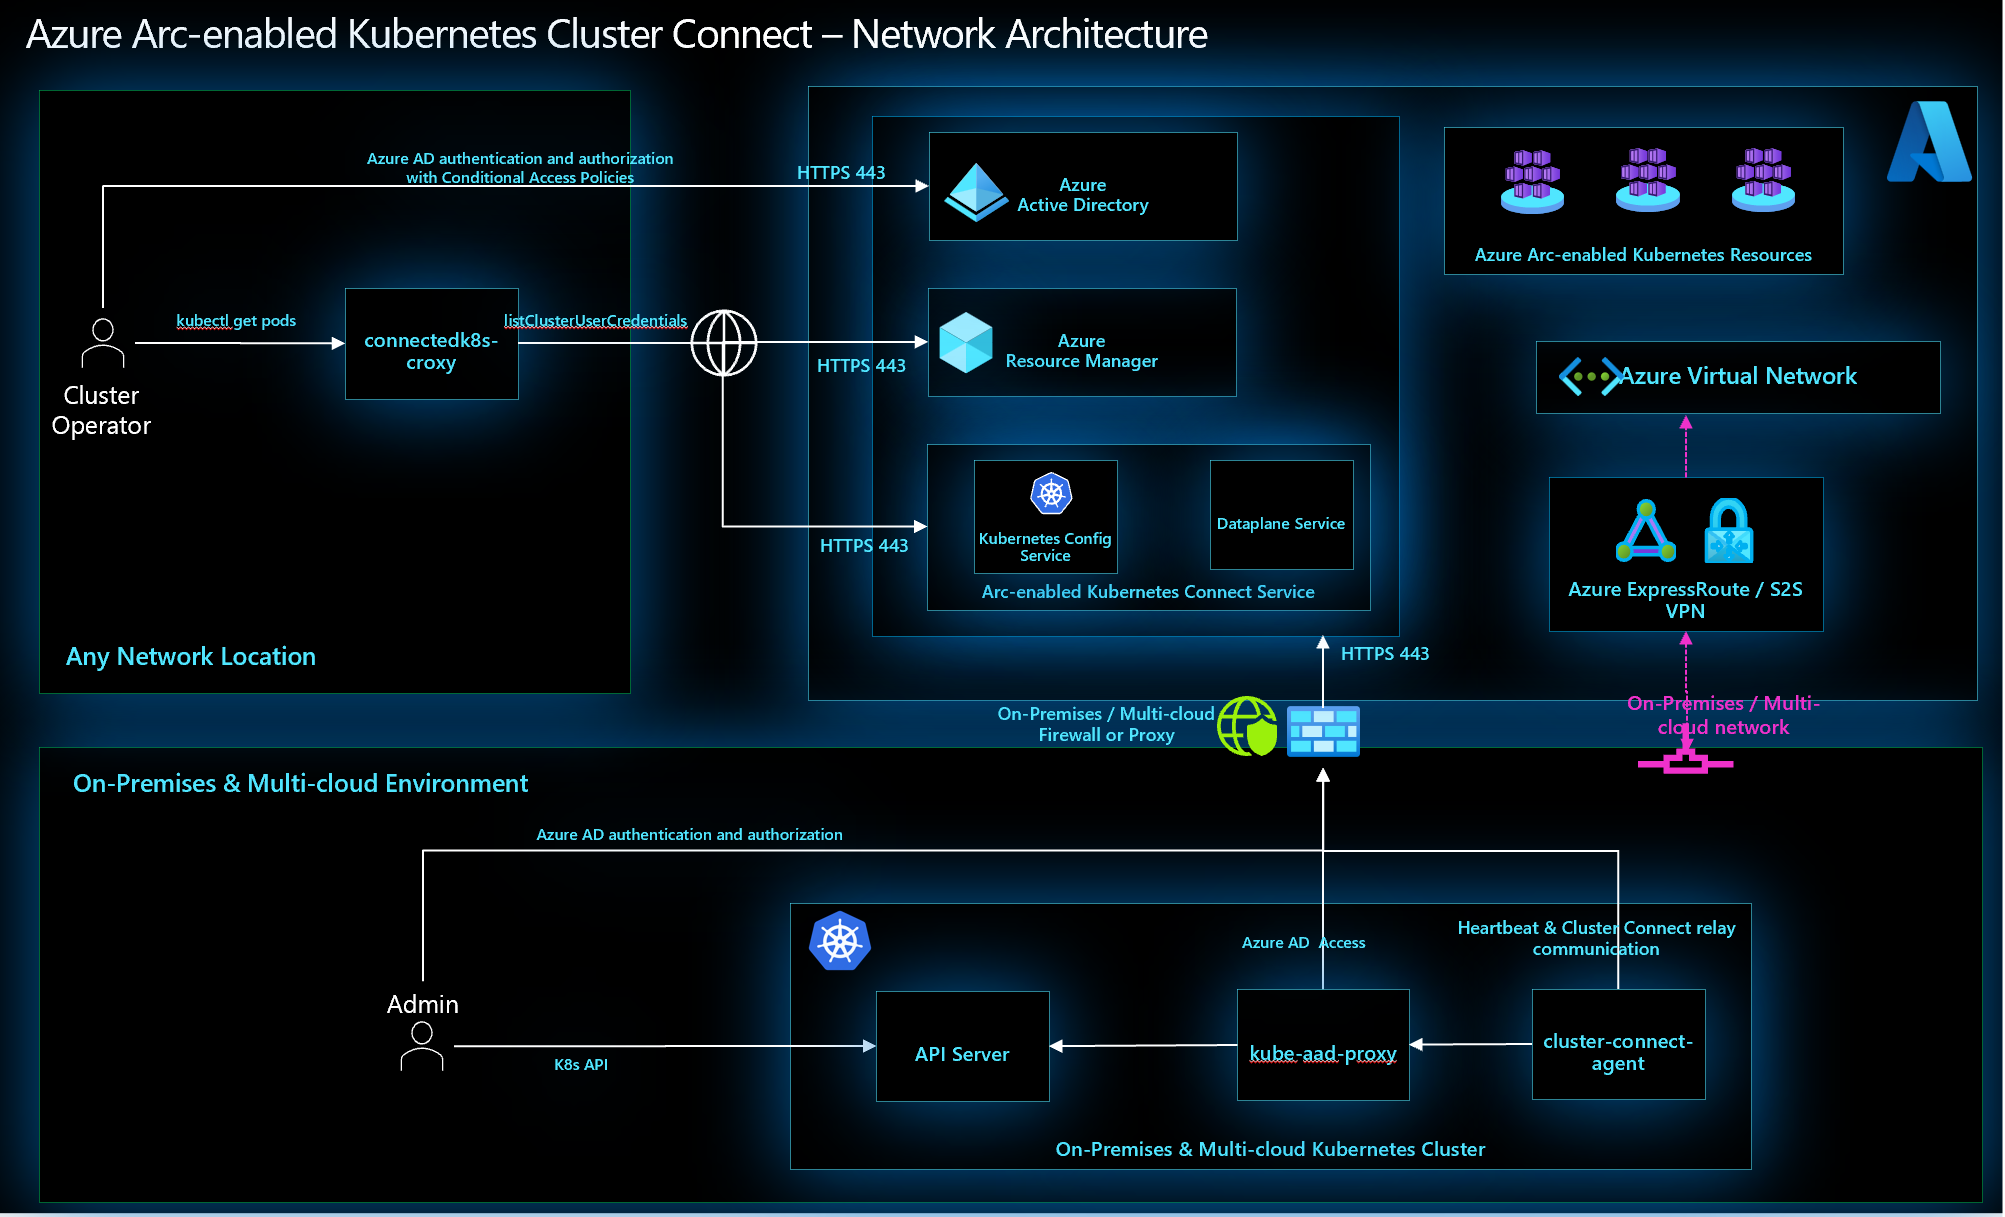
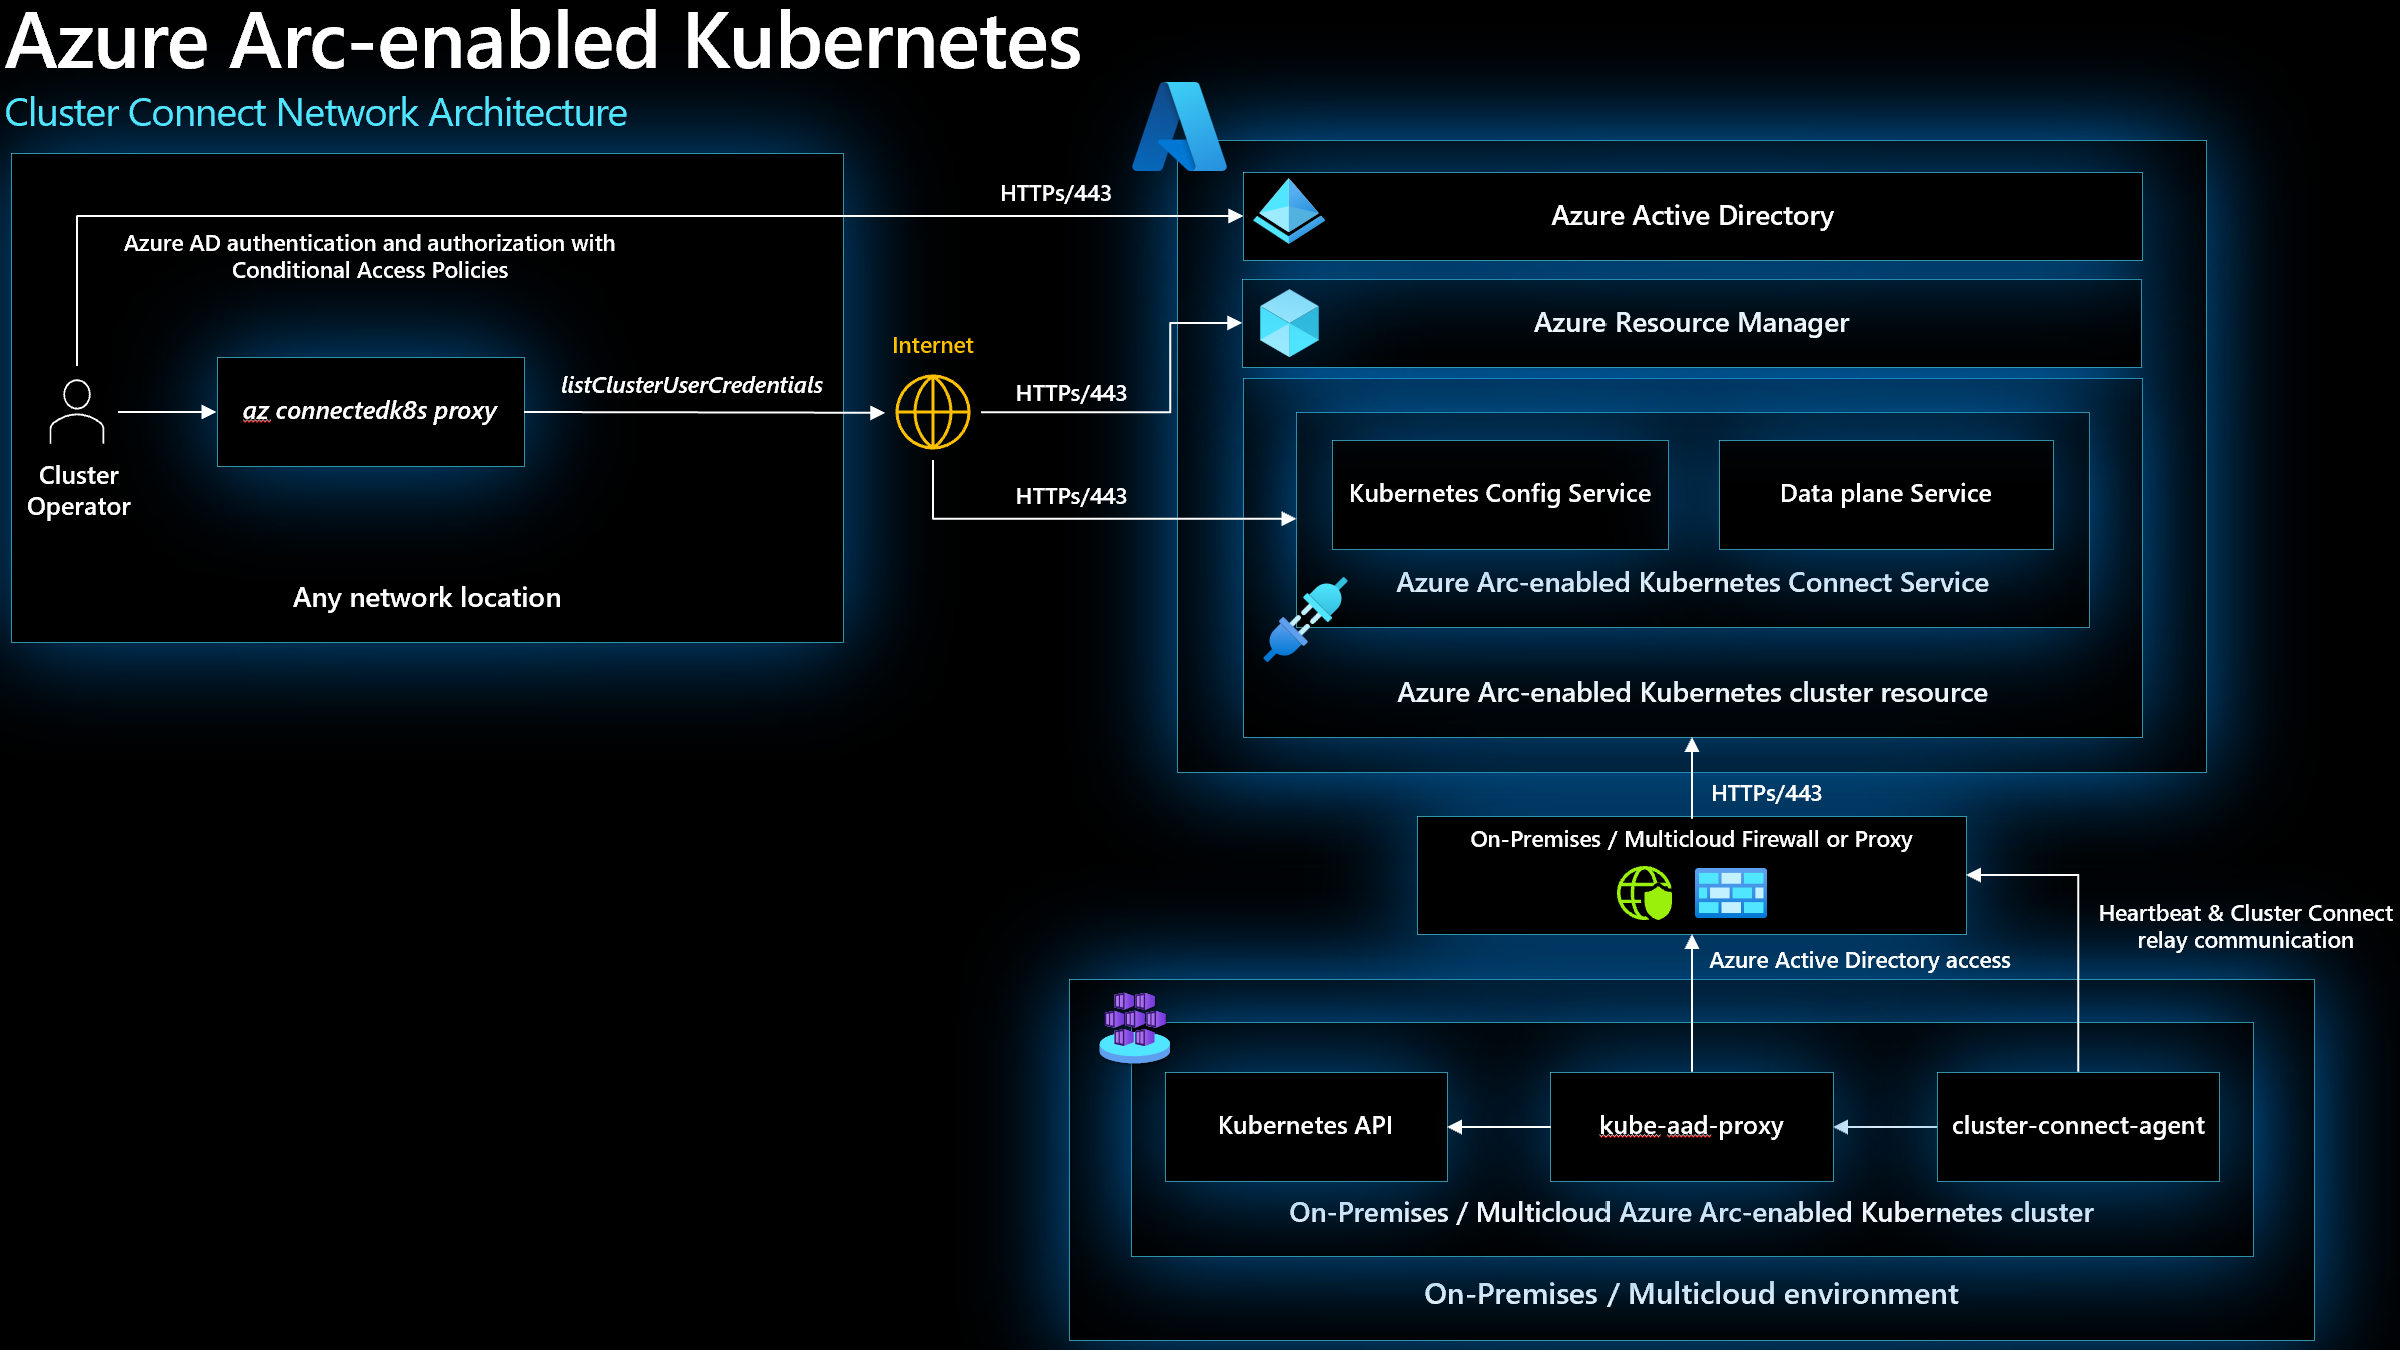
Updated Network CDA diagrams

diff --git a/docs/scenarios/hybrid/arc-enabled-kubernetes/network-connectivity.md b/docs/scenarios/hybrid/arc-enabled-kubernetes/network-connectivity.md
@@ -24,7 +24,7 @@ The following is an Azure Arc-enabled Kubernetes network architecture diagram to
 
 The following is a network architecture diagram that supports cluster access from any network location using [Azure Arc-enabled Kubernetes Cluster Connect capability](/azure/azure-arc/kubernetes/conceptual-cluster-connect) feature.
 
-![Arc-enabled Kubernetes Cluster Connect Network Architecture](./media/conceptual-cluster-connect.png)
+![Arc-enabled Kubernetes Cluster Connect Network Architecture](./media/cluster-connect-network.png)
 
 ## Design considerations
 
